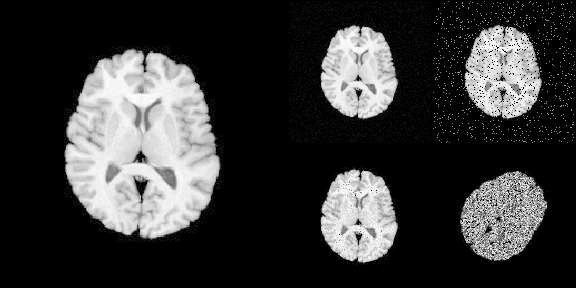
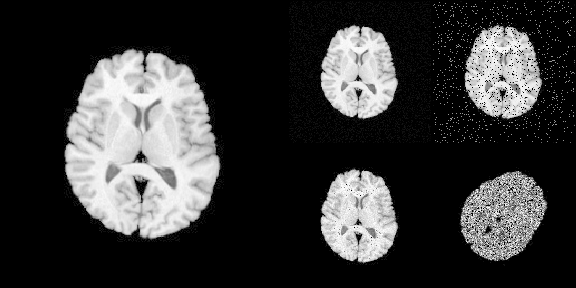
Re-compiled README

diff --git a/README.md b/README.md
@@ -122,7 +122,7 @@ ants$add_noise_to_image
 #> 
 #> *** Above documentation is for Python. 
 #> *** Please use `$` instead of `.` for modules and functions in R
-#> <function add_noise_to_image at 0x163af8360>
+#> <function add_noise_to_image at 0x121ab40e0>
 #>  signature: (image, noise_model, noise_parameters)
 ```
 
@@ -194,7 +194,7 @@ image(noise_image4[], asp = 1, axes = FALSE,
       col = pal, zlim = c(0, 255), ylim = c(1, 0))
 ```
 
-<img src="man/figures/README-load-image-into-r-1.png" width="80%" />
+<img src="man/figures/README-load-image-into-r-1.png" alt="" width="80%" />
 
 ## Advanced use case
 
@@ -216,7 +216,7 @@ print(ants.__version__)
 )")
 
 run_script(script_path)
-#> 0.5.4
+#> 0.6.3
 ```
 
 You can also run `Python` interactive in R (yes, you are correct).
